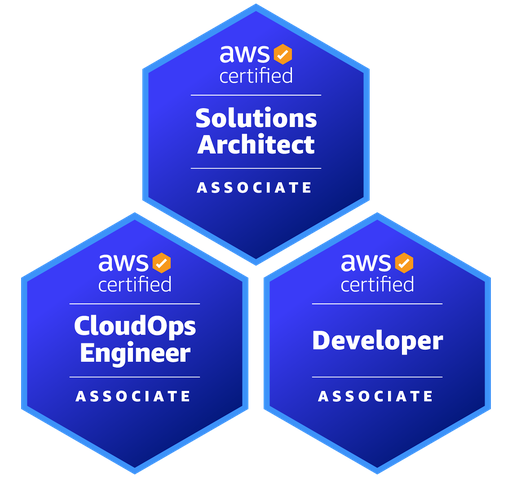
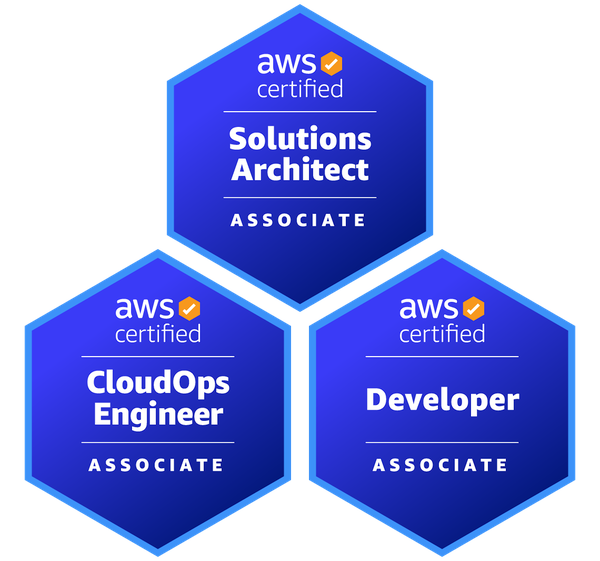
アイキャッチのバッジ画像を 600px にする
本文の先頭画像はそのまま og:image になる。512px は Facebook が大きい
カードに使う目安の 600px を下回るため、同じ連作のバッジ画像に揃えた。
原本 1140px から縮め直している（512 からの拡大ではない）。

diff --git a/source/_posts/2026/20260824a_AWS_Certified_Associate_3資格_合格体験記_-_Specialty・Professional取得後に5日で3連取.md b/source/_posts/2026/20260824a_AWS_Certified_Associate_3資格_合格体験記_-_Specialty・Professional取得後に5日で3連取.md
@@ -11,7 +11,7 @@ thumbnail: /images/2026/20260824a/thumbnail.png
 author: 棚井龍之介
 lede: "Specialty・Professionalの取得後に、AWS認定のAssociateレベル3資格を5日間で連続受験し、すべて一発合格しました。上位資格の学習でカバーできた範囲とできなかった範囲を、試験ごとの学習量とあわせて整理します。"
 ---
-<img src="/images/2026/20260824a/aws-associate-3badges.png" alt="" width="512" height="478">
+<img src="/images/2026/20260824a/aws-associate-3badges.png" alt="" width="600" height="561">
 
 ## はじめに
 
